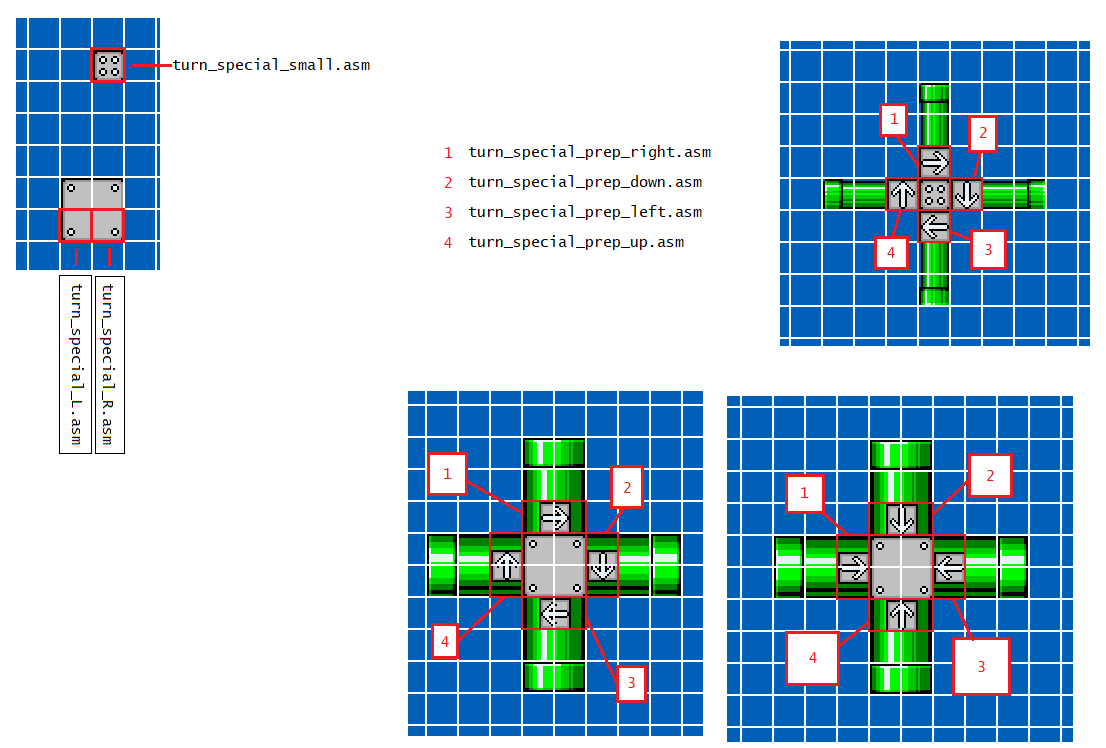
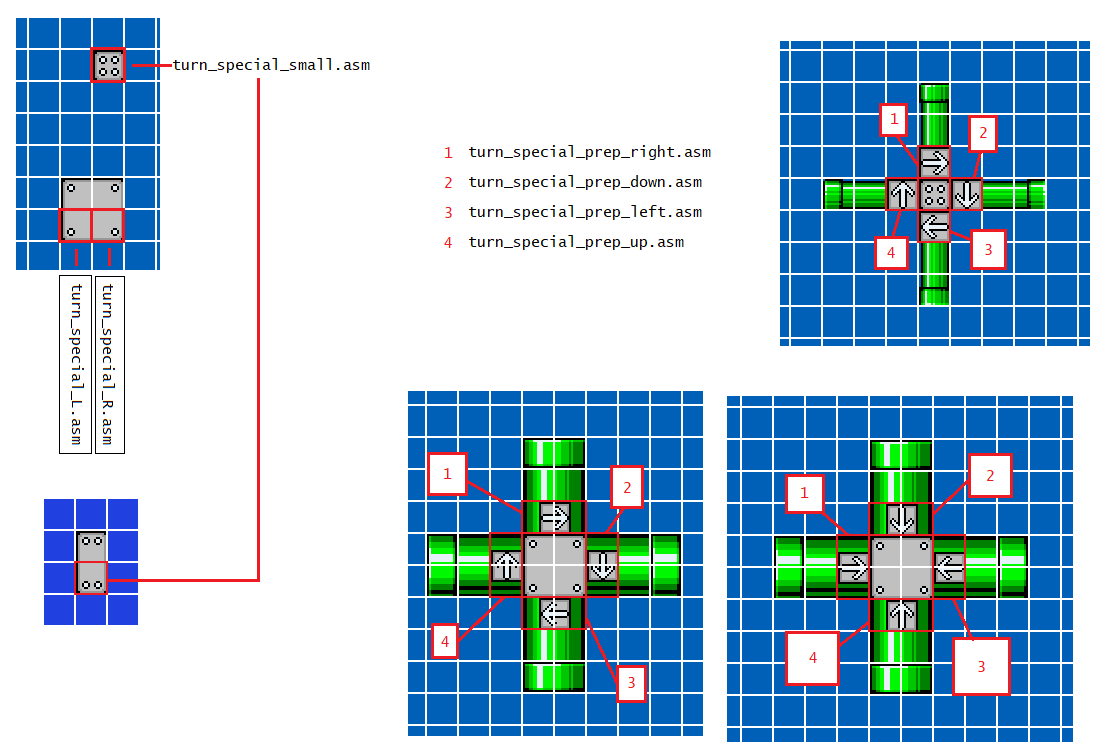
update
-fixed missing word on the readme
-reworded the blocks usage in level a bit better
-Fixed missing picture that the bottom half of the 16x32 turn special small is also on the small-allow-big-mario pipes.

Changed region(s): [[0.0307, 0.6457, 0.2152, 0.861]]

diff --git a/Readme_files/BlocksUsageInLevel2.html b/Readme_files/BlocksUsageInLevel2.html
@@ -185,7 +185,7 @@ And the tables should be like this:<br>
 </pre></td></tr></table>
 One thing to note is that you may make a mistake and have the player go in directions in an unintended way (and softlock), and you
 cannot see him because the SSP system is designed to make the player invisible to hide the illusion the player was dragged rather
-than warped. To make fixing or discovering what happens, go to <kbd>SSPDef/Defines.asm</kbd>, and set <kbd>!Setting_SSP_PipeDebug</kbd>
+than warped. To assist on fixing or discovering what or how that happens, go to <kbd>SSPDef/Defines.asm</kbd>, and set <kbd>!Setting_SSP_PipeDebug</kbd>
 to <kbd>1</kbd> and reinsert. Don't forget to set this back to <kbd>0</kbd> once you finish your hack.
 <center><a href="../Readme.html#UseBlocksInLevel2">Back</a><br></center>
 
@@ -205,7 +205,8 @@ They will set Mario's prep direction to one of the 2 out of the 5 possible setti
 They are named <kbd>0X_1X.asm</kbd> (check out <kbd>SSP_Tiles/SwitchControlledSpecialTurnPrep/OnOff</kbd>), where the X's are any of the 5 settings. The 0s and 1s
 indicate the two states of the given RAM switch. For example, <kbd>0U_1D.asm</kbd> means if the RAM is 0 (on/off switch = ON), would set Mario's special prep direction to
 &ldquo;up&rdquo; and if 1 (or nonzero in general, on/off switch = OFF), would set his prep direction to &ldquo;down&rdquo;. Just like the normal turn special prep
-direction blocks, they too will check the player's &ldquo;bottom half&rdquo; to interact with the block.<br><br>
+direction blocks, they too will check the player's &ldquo;bottom half&rdquo; to interact with the block, and they should be used with the <kbd>turn_Special</kbd> blocks<br>
+to apply its effects.<br>
 
 The animated graphics should be obvious. If the arrows on them are &ldquo;lit up&rdquo;, that means that direction will be used. If there is only one, and isn't lit up,
-would mean the player goes straight.
+would mean the player goes straight. The level file should explain using all directions states.

diff --git a/Readme.html b/Readme.html
@@ -588,7 +588,7 @@ patch will apply to all levels, meaning that the freeram addresses the SSPs use 
 <h1><a href="#TOC_CreditsBack" id="TOC_Credits">^</a>Credits</h1>
 <ul>
 <li>Me, <a href="https://www.smwcentral.net/?p=profile&id=18802">HammerBrother</a> (Formerly GreenHammerBro) for this ASM package.</li>
-<li><a href="https://www.smwcentral.net/?p=profile&id=257">MarioE</a> and <a href="https://www.smwcentral.net/?p=profile&id=8691">Akaginite</a> for the sprite aiming routine (Akaginite fixed the code to allow unlimited). This is used
+<li><a href="https://www.smwcentral.net/?p=profile&id=257">MarioE</a> and <a href="https://www.smwcentral.net/?p=profile&id=8691">Akaginite</a> for the sprite aiming routine (Akaginite fixed the code to allow unlimited distance). This is used
 under uberasm tool to drag the player during warp mode.</li>
 <li><a href="https://benhollis.net/"> Benjamin Hollis</a>, for letting me compress my images (via PNGGauntlet) so I can fit this package into SMWC's block section's 1MIB (1048.58KB) size limit</li>
 </ul>
